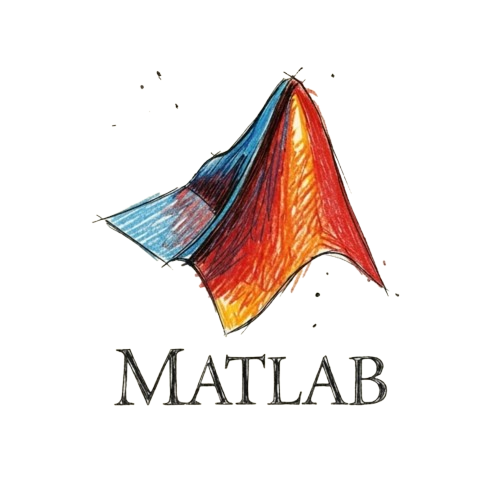
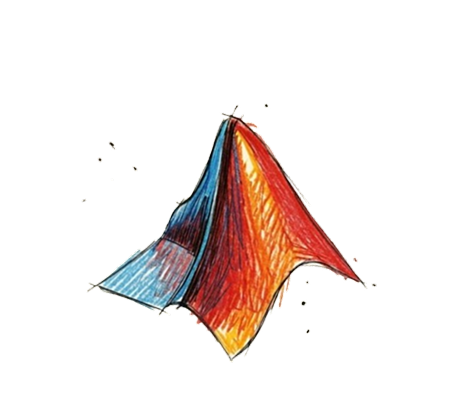
fixed positioning of elements in landing page

Changed region(s): [[0.1765, 0.1157, 0.7941, 0.8675], [0.2941, 0.1446, 0.3235, 0.1735]]

diff --git a/components/landing-page.tsx b/components/landing-page.tsx
@@ -458,43 +458,43 @@ export function LandingPage() {
           <GooseViewer key={`goose-${gooseKey}`} />
         </motion.div>
 
-        {/* MATLAB — left edge, behind "2030" text */}
+        {/* MATLAB — beneath "2030", overlapping with the 0 */}
         <motion.div
           className="absolute"
-          style={{ left: '0', top: '25%', width: '18%', zIndex: 2 }}
-          initial={{ opacity: 0, x: -30 }}
-          animate={{ opacity: 1, x: 0 }}
+          style={{ left: '55%', top: '60%', width: '20%', zIndex: 1 }}
+          initial={{ opacity: 0, x: -15 }}
+          animate={{ opacity: 1, x: -15 }}
           transition={{ duration: 0.7, delay: 0.25, ease: [0.22, 1, 0.36, 1] }}
         >
           <img src="/matlab.png" alt="" className="w-full h-auto" />
         </motion.div>
 
-        {/* SolidWorks cube — right of "2030", left of circle */}
+        {/* SolidWorks cube — right of "2030", overlapping circle */}
         <motion.div
           className="absolute"
-          style={{ left: '28%', top: '22%', width: '12%', zIndex: 15 }}
-          initial={{ opacity: 0, scale: 0.8 }}
-          animate={{ opacity: 1, scale: 1 }}
+          style={{ left: '20%', top: '20%', width: '18%', zIndex: 15 }}
+          initial={{ opacity: 0, scale: 0.8, rotate: 20 }}
+          animate={{ opacity: 1, scale: 1, rotate: 20 }}
           transition={{ duration: 0.6, delay: 0.3, ease: [0.22, 1, 0.36, 1] }}
         >
           <img src="/sw-cube.png" alt="" className="w-full h-auto" />
         </motion.div>
 
-        {/* C++ — upper right, near "engineering" text */}
+        {/* C++ — right side, below "engineering", near circle */}
         <motion.div
           className="absolute"
-          style={{ right: '12%', top: '5%', width: '10%', zIndex: 15 }}
-          initial={{ opacity: 0, y: -20 }}
-          animate={{ opacity: 1, y: 0 }}
+          style={{ right: '20%', top: '23%', width: '8%', zIndex: 15 }}
+          initial={{ opacity: 0, y: -20, rotate: 20 }}
+          animate={{ opacity: 1, y: 0, rotate: 20 }}
           transition={{ duration: 0.6, delay: 0.35, ease: [0.22, 1, 0.36, 1] }}
         >
           <img src="/cpp.png" alt="" className="w-full h-auto" />
         </motion.div>
 
-        {/* Sandwich — top right corner */}
+        {/* Sandwich — right side, midway height */}
         <motion.div
           className="absolute"
-          style={{ right: '3%', top: '12%', width: '14%', zIndex: 15 }}
+          style={{ right: '3%', top: '24%', width: '14%', zIndex: 15 }}
           initial={{ opacity: 0, rotate: -10 }}
           animate={{ opacity: 1, rotate: 0 }}
           transition={{ duration: 0.6, delay: 0.4, ease: [0.22, 1, 0.36, 1] }}
@@ -502,32 +502,32 @@ export function LandingPage() {
           <img src="/sandwich.png" alt="" className="w-full h-auto" />
         </motion.div>
 
-        {/* Crest — right of circle, middle */}
+        {/* Crest — larger, tilted, almost touching circle */}
         <motion.div
           className="absolute"
-          style={{ right: '5%', top: '42%', width: '10%', zIndex: 15 }}
-          initial={{ opacity: 0, scale: 0.9 }}
-          animate={{ opacity: 1, scale: 1 }}
+          style={{ right: '20%', top: '35%', width: '18%', zIndex: 15 }}
+          initial={{ opacity: 0, scale: 0.9, rotate: -20 }}
+          animate={{ opacity: 1, scale: 1, rotate: -20 }}
           transition={{ duration: 0.6, delay: 0.35, ease: [0.22, 1, 0.36, 1] }}
         >
           <img src="/crest.png" alt="Crest" className="w-full h-auto object-contain" />
         </motion.div>
 
-        {/* Book — bottom, overlapping circle */}
+        {/* Book — higher, rotated 35 degrees clockwise */}
         <motion.div
           className="absolute"
-          style={{ left: '28%', bottom: '3%', width: '12%', zIndex: 25 }}
-          initial={{ opacity: 0, y: 20 }}
-          animate={{ opacity: 1, y: 0 }}
+          style={{ left: '26%', bottom: '30%', width: '12%', zIndex: 0 }}
+          initial={{ opacity: 0, y: 20, rotate: 15 }}
+          animate={{ opacity: 1, y: 0, rotate: 15 }}
           transition={{ duration: 0.6, delay: 0.45, ease: [0.22, 1, 0.36, 1] }}
         >
           <img src="/book-river.png" alt="" className="w-full h-auto" />
         </motion.div>
 
-        {/* RELEASING MARCH sticker — bottom right, near "webring" */}
+        {/* RELEASING MARCH sticker — smaller, higher, more right */}
         <motion.div
           className="absolute"
-          style={{ right: '3%', bottom: '12%', width: '14%', zIndex: 15 }}
+          style={{ right: '2%', bottom: '38%', width: '12%', zIndex: 0 }}
           initial={{ opacity: 0, rotate: 5 }}
           animate={{ opacity: 1, rotate: 0 }}
           transition={{ duration: 0.6, delay: 0.5, ease: [0.22, 1, 0.36, 1] }}
